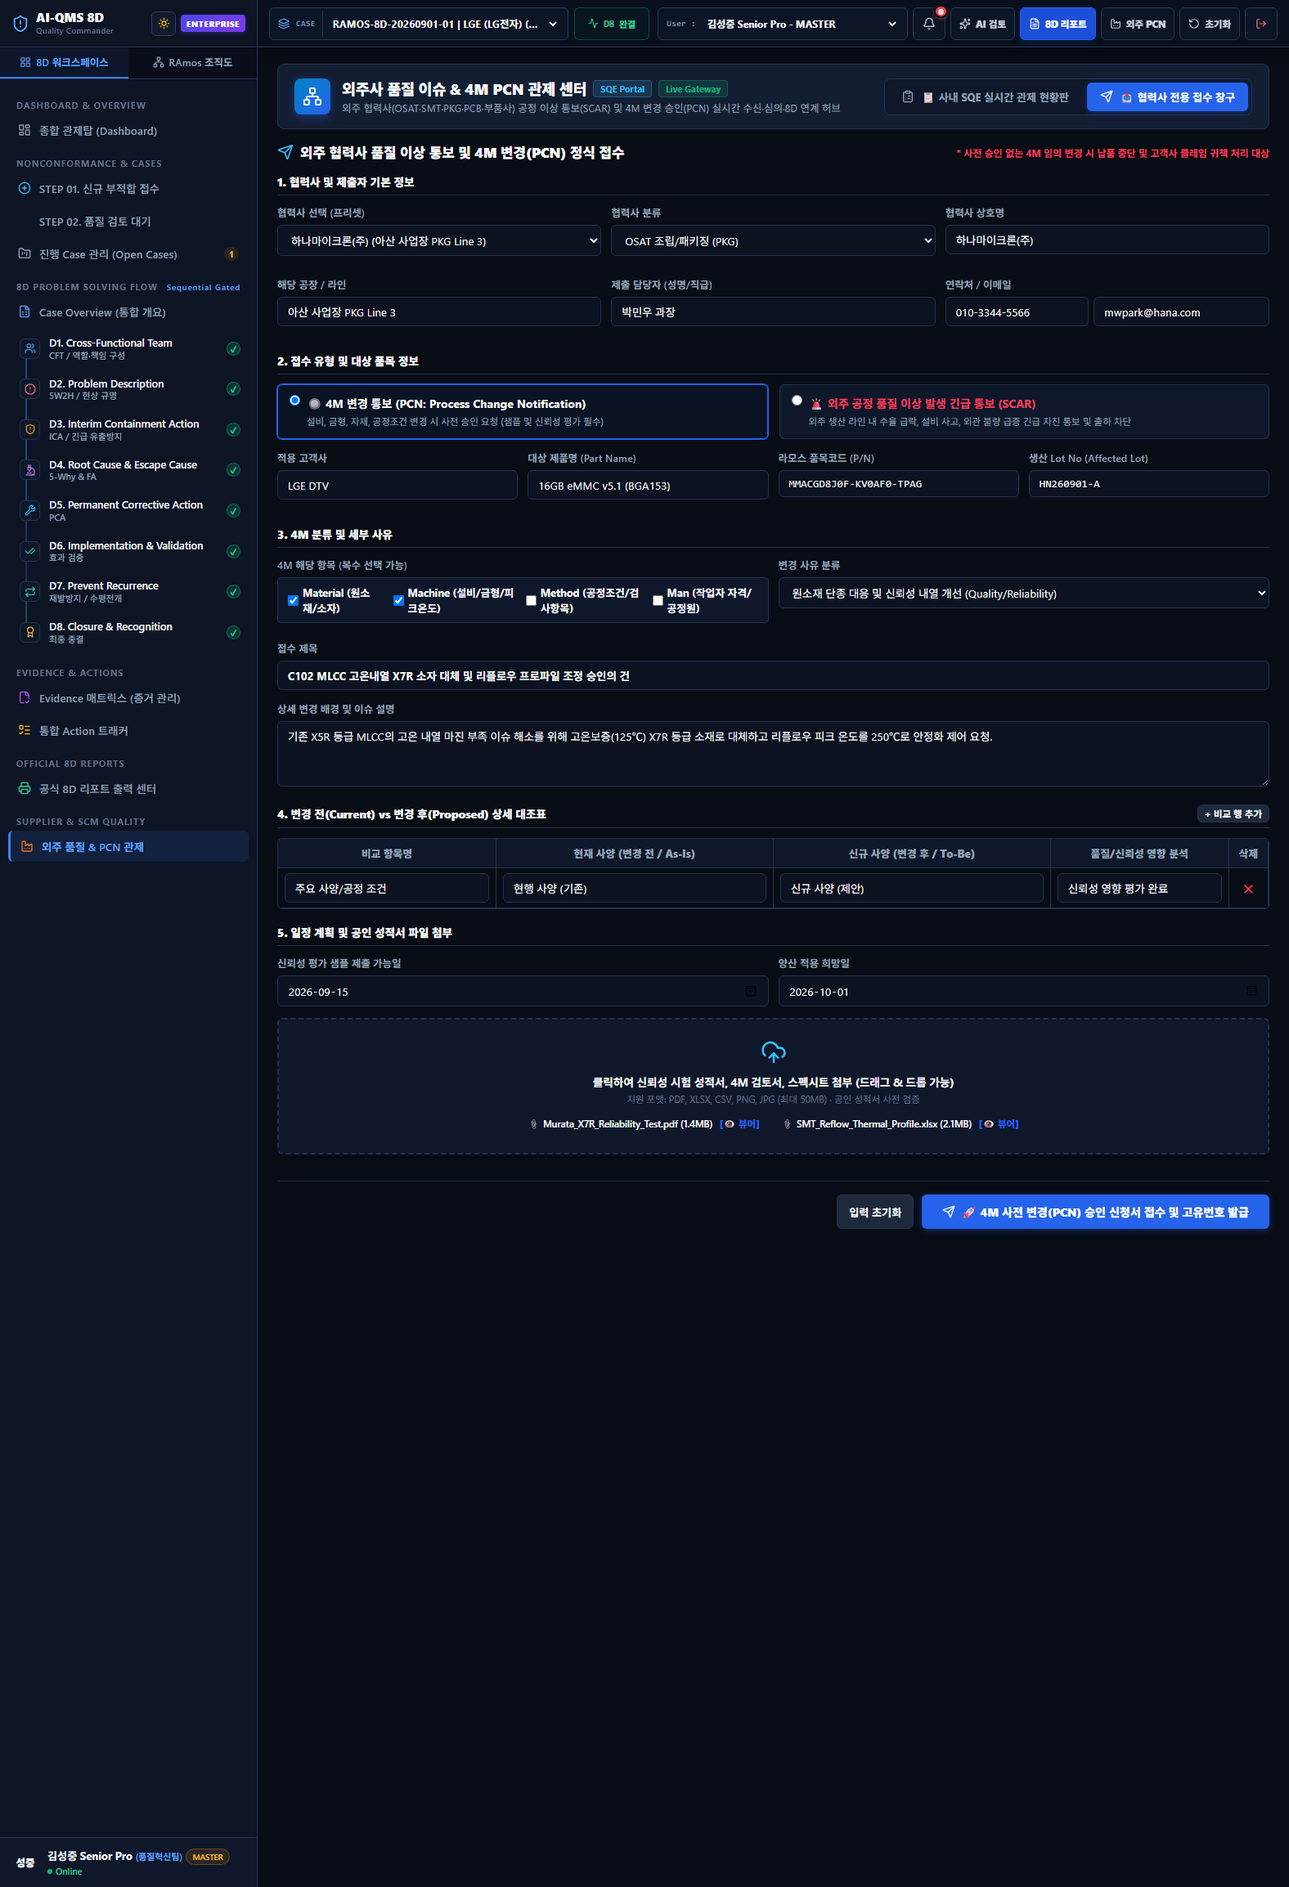
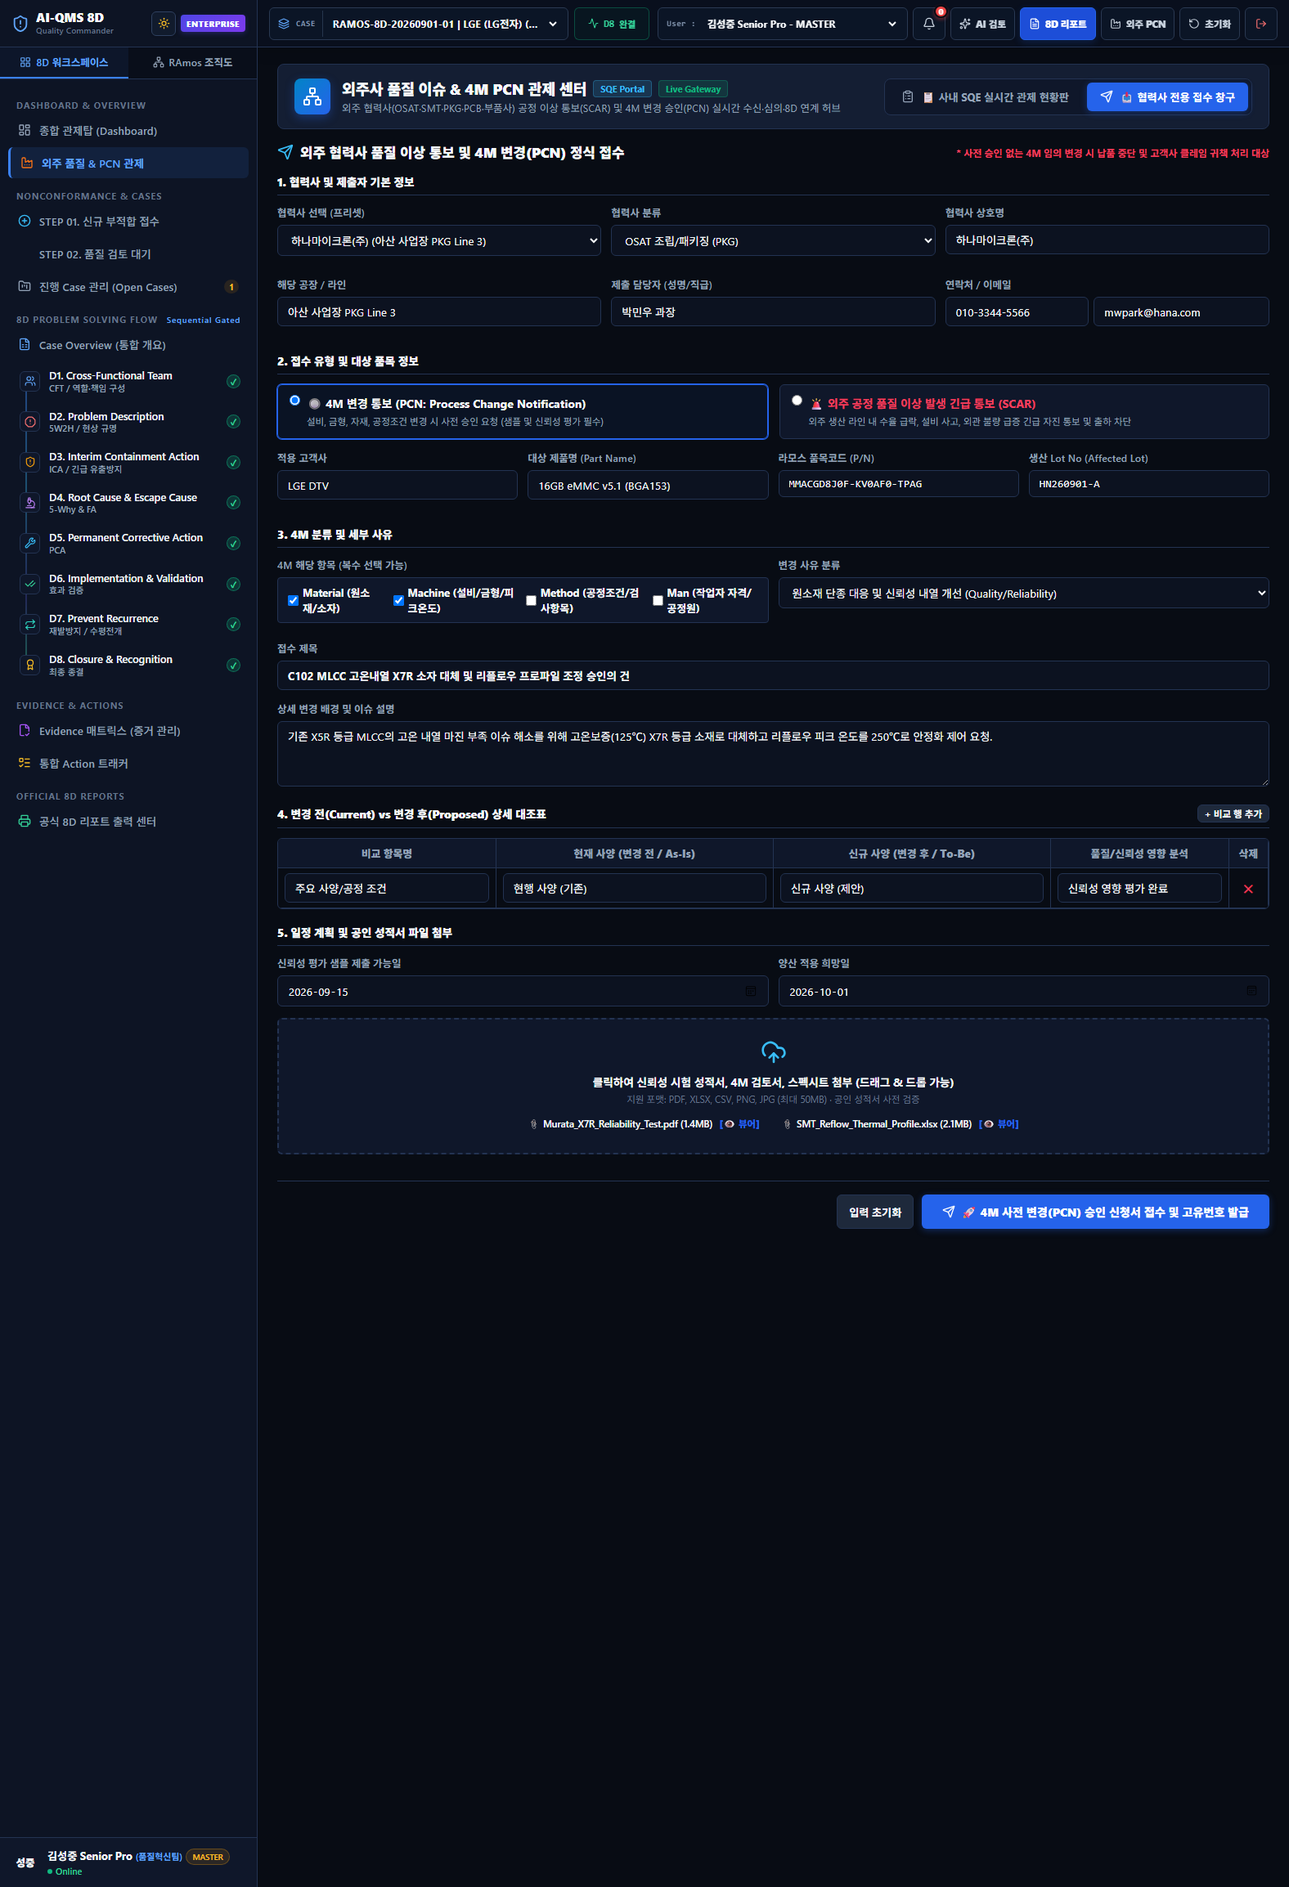
feat(supplier): relocate supplier portal under Dashboard and strictly hide all company internal 8D menus, org tree, and case selector for subcontractor accounts

Changed region(s): [[0.0, 0.0624, 0.1865, 0.4679]]

diff --git a/js/app.js b/js/app.js
@@ -251,38 +251,38 @@ function renderUserSwitcherHeader() {
 }
 
 function adaptSidebarForUser() {
-  const sidebarMenu = document.getElementById('sidebarMenuView');
-  if (!sidebarMenu) return;
+  const isSupplier = Boolean(CURRENT_USER && CURRENT_USER.isSupplier);
+  const internalNav = document.getElementById('internalCompanyNavSection');
+  const dashboardNav = document.getElementById('navItemDashboard');
+  const supplierNav = document.getElementById('nav-supplier-portal');
+  const supplierNavText = document.getElementById('navSupplierPortalText');
+  const menuCatOverview = document.getElementById('menuCatOverview');
+  const sidebarTabs = document.querySelector('.sidebar-tabs');
 
-  let banner = document.getElementById('sidebarSupplierNoticeBanner');
-  if (CURRENT_USER.isSupplier) {
-    if (!banner) {
-      banner = document.createElement('div');
-      banner.id = 'sidebarSupplierNoticeBanner';
-      banner.style.cssText = `
-        margin: 10px 14px;
-        padding: 10px 12px;
-        background: rgba(249, 115, 22, 0.12);
-        border: 1px solid rgba(249, 115, 22, 0.35);
-        border-radius: 8px;
-        display: flex;
-        flex-direction: column;
-        gap: 4px;
-      `;
-      sidebarMenu.prepend(banner);
-    }
-    banner.style.display = 'flex';
-    banner.innerHTML = `
-      <div style="display:flex; align-items:center; gap:6px; color:#f97316; font-size:0.75rem; font-weight:800;">
-        <i data-lucide="shield" style="width:14px; height:14px;"></i>
-        <span>외주사 보안 모드 가동</span>
-      </div>
-      <div style="font-size:0.7rem; color:var(--text-secondary); line-height:1.35;">
-        <b>${CURRENT_USER.company || '하나마이크론(주)'}</b> 계정입니다.<br>
-        <span style="color:#fb923c;">'외주 품질 & PCN 관제'</span>에서 당사 접수 건을 확인하세요.
-      </div>
-    `;
+  if (isSupplier) {
+    document.body.classList.add('supplier-mode');
+    if (internalNav) internalNav.style.display = 'none';
+    if (dashboardNav) dashboardNav.style.display = 'none';
+    if (sidebarTabs) sidebarTabs.style.display = 'none';
+    if (menuCatOverview) menuCatOverview.innerText = `외주 협력사 포털 (${CURRENT_USER.company || '하나마이크론'})`;
+    if (supplierNavText) supplierNavText.innerText = '외주 협력사 품질 & 4M PCN 접수 포털';
+    if (supplierNav) supplierNav.classList.add('active');
+
+    const orgView = document.getElementById('sidebarOrgView');
+    const menuView = document.getElementById('sidebarMenuView');
+    if (orgView) orgView.style.display = 'none';
+    if (menuView) menuView.style.display = 'block';
+
+    const banner = document.getElementById('sidebarSupplierNoticeBanner');
+    if (banner) banner.style.display = 'none';
   } else {
+    document.body.classList.remove('supplier-mode');
+    if (internalNav) internalNav.style.display = '';
+    if (dashboardNav) dashboardNav.style.display = '';
+    if (sidebarTabs) sidebarTabs.style.display = '';
+    if (menuCatOverview) menuCatOverview.innerText = 'Dashboard & Overview';
+    if (supplierNavText) supplierNavText.innerText = '외주 품질 & PCN 관제';
+    const banner = document.getElementById('sidebarSupplierNoticeBanner');
     if (banner) banner.style.display = 'none';
   }
 }
@@ -361,6 +361,9 @@ function onCaseChange(caseId) {
 
 function switchNav(viewName, el) {
   if (typeof persistCurrentEditor === 'function' && !persistCurrentEditor()) return;
+  if (CURRENT_USER && CURRENT_USER.isSupplier && viewName !== 'supplier-portal') {
+    return;
+  }
   appData.currentView = viewName;
   saveAppData();
   document.querySelectorAll('.nav-item').forEach(n => n.classList.remove('active'));
@@ -369,6 +372,9 @@ function switchNav(viewName, el) {
 }
 
 function switchStage(stageName) {
+  if (CURRENT_USER && CURRENT_USER.isSupplier) {
+    return;
+  }
   if (typeof persistCurrentEditor === 'function' && !persistCurrentEditor()) return;
   const activeCase = getActiveCase();
   if (typeof canEnterQualityStage === 'function' && activeCase) {
@@ -512,6 +518,10 @@ function openNotificationModal() {
 function renderCurrentView() {
   const container = document.getElementById('mainContentContainer');
   if (!container) return;
+
+  if (CURRENT_USER && CURRENT_USER.isSupplier && appData.currentView !== 'supplier-portal') {
+    appData.currentView = 'supplier-portal';
+  }
 
   const c = getActiveCase();
   const bannerHtml = renderUserTaskBannerHTML();

diff --git a/index.html b/index.html
@@ -13,7 +13,7 @@
   <script src="js/vendor/xlsx.full.min.js"></script>
 
   <!-- Modular Portal Stylesheet -->
-  <link rel="stylesheet" href="css/styles.css?v=20260909_v44">
+  <link rel="stylesheet" href="css/styles.css?v=20260909_v45">
   <script>
     (function() {
       try {
@@ -136,17 +136,23 @@
 
     <!-- TAB 1: 8D WORKSPACE MENU -->
     <div class="sidebar-content" id="sidebarMenuView">
-      <div class="menu-cat">Dashboard & Overview</div>
-      <a class="nav-item active" onclick="switchNav('dashboard', this)">
+      <div class="menu-cat" id="menuCatOverview">Dashboard & Overview</div>
+      <a class="nav-item active" id="navItemDashboard" onclick="switchNav('dashboard', this)">
         <i data-lucide="layout-dashboard" style="width: 16px; height: 16px;"></i>
         <span>종합 관제탑 (Dashboard)</span>
       </a>
-
-      <div class="menu-cat">Nonconformance & Cases</div>
-      <a class="nav-item" onclick="switchNav('new-case', this)">
-        <i data-lucide="plus-circle" style="width: 16px; height: 16px; color: #38bdf8;"></i>
-        <span>STEP 01. 신규 부적합 접수</span>
+      <a class="nav-item" id="nav-supplier-portal" onclick="switchNav('supplier-portal', this)">
+        <i data-lucide="factory" style="width: 16px; height: 16px; color: #f97316;"></i>
+        <span id="navSupplierPortalText">외주 품질 & PCN 관제</span>
       </a>
+
+      <!-- Company Internal 8D Sections (Hidden for Subcontractor Account) -->
+      <div id="internalCompanyNavSection">
+        <div class="menu-cat">Nonconformance & Cases</div>
+        <a class="nav-item" onclick="switchNav('new-case', this)">
+          <i data-lucide="plus-circle" style="width: 16px; height: 16px; color: #38bdf8;"></i>
+          <span>STEP 01. 신규 부적합 접수</span>
+        </a>
       <a class="nav-item" onclick="switchNav('intake-triage', this)">
         <i data-lucide="clipboard-search" style="width: 16px; height: 16px; color: #f59e0b;"></i>
         <span>STEP 02. 품질 검토 대기</span>
@@ -280,13 +286,8 @@
         <i data-lucide="printer" style="width: 16px; height: 16px; color: #34d399;"></i>
         <span>공식 8D 리포트 출력 센터</span>
       </a>
-
-      <div class="menu-cat">Supplier & SCM Quality</div>
-      <a class="nav-item" onclick="switchNav('supplier-portal', this)" id="nav-supplier-portal">
-        <i data-lucide="factory" style="width: 16px; height: 16px; color: #f97316;"></i>
-        <span>외주 품질 & PCN 관제</span>
-      </a>
-    </div>
+      </div> <!-- /internalCompanyNavSection -->
+    </div> <!-- /sidebarMenuView -->
 
     <!-- TAB 2: RAMOS ORG TREE -->
     <div class="sidebar-content" id="sidebarOrgView" style="display: none;">
@@ -356,19 +357,19 @@
           <span class="notif-badge-count" id="headerNotifBadge">0</span>
         </button>
 
-        <button class="header-action-button" onclick="openAIAssistantModal()" title="AI 품질 검토">
+        <button class="header-action-button header-internal-btn" onclick="openAIAssistantModal()" title="AI 품질 검토">
           <i data-lucide="sparkles"></i>
           <span>AI 검토</span>
         </button>
-        <button class="header-action-button primary" onclick="switchNav('reports-hub')" title="8D 리포트 및 결재">
+        <button class="header-action-button primary header-internal-btn" onclick="switchNav('reports-hub')" title="8D 리포트 및 결재">
           <i data-lucide="file-text"></i>
           <span>8D 리포트</span>
         </button>
-        <button class="header-action-button" onclick="switchNav('supplier-portal')" title="외주사 품질 및 4M PCN 관제">
+        <button class="header-action-button header-internal-btn" onclick="switchNav('supplier-portal')" title="외주사 품질 및 4M PCN 관제">
           <i data-lucide="factory"></i>
           <span>외주 PCN</span>
         </button>
-        <button class="header-action-button" onclick="if(confirm('진짜 회사 16GB 기준 데이터로 화면을 깨끗하게 새로고침하시겠습니까?')) resetToReal16GBData()" title="16GB 기준 데이터 초기화">
+        <button class="header-action-button header-internal-btn" onclick="if(confirm('진짜 회사 16GB 기준 데이터로 화면을 깨끗하게 새로고침하시겠습니까?')) resetToReal16GBData()" title="16GB 기준 데이터 초기화">
           <i data-lucide="rotate-ccw"></i>
           <span>초기화</span>
         </button>

diff --git a/css/styles.css b/css/styles.css
@@ -35248,3 +35248,29 @@ html[data-theme="light"] .content-body {
   border-color: #38bdf8;
   transform: translateY(-1px);
 }
+
+/* ========================================================================= */
+/* SUBCONTRACTOR ISOLATION RULES (외주 협력사 로그인 시 사내 8D 정보 완전 은닉) */
+/* ========================================================================= */
+body.supplier-mode #internalCompanyNavSection,
+body.supplier-mode #navItemDashboard,
+body.supplier-mode .header-case-zone,
+body.supplier-mode .header-internal-btn,
+body.supplier-mode .sidebar-tabs,
+body.supplier-mode #sidebarOrgView {
+  display: none !important;
+}
+
+body.supplier-mode #nav-supplier-portal {
+  background: rgba(249, 115, 22, 0.12) !important;
+  border-left: 3px solid #f97316 !important;
+  color: #fb923c !important;
+  font-weight: 800 !important;
+  padding: 10px 14px;
+}
+
+body.supplier-mode #menuCatOverview {
+  color: #f97316;
+  font-weight: 800;
+  letter-spacing: 0.04em;
+}

diff --git a/WORK_HANDOFF.md b/WORK_HANDOFF.md
@@ -6,38 +6,59 @@
 
 ## 📌 현재 활성 프로젝트 상태 (Latest Active Status)
 
-* **최근 업데이트 일시**: `2026-09-09 08:35 (KST)`
+* **최근 업데이트 일시**: `2026-09-09 08:47 (KST)`
 * **최근 작업 프로젝트**: `11_AI_Customer_Nonconformance_8D_System_Antigravity`
-* **진행 상태 (Status)**: 🟢 `[COMPLETED]` / 🏭 `[DEDICATED_SUBCONTRACTOR_ACCOUNT_AND_SECURITY_MODE_DEPLOYED]`
+* **진행 상태 (Status)**: 🟢 `[COMPLETED]` / 🛡 `[STRICT_SUBCONTRACTOR_NAVIGATION_ISOLATION_AND_RELOCATION_DEPLOYED]`
 * **작업 내용 요약**:
-  1. **외주 협력사 전용 계정 및 퀵 로그인·페르소나 체계 구축**:
-     - **사용자 요청**: "일단 외주 계정으로 1개 만들어줘!! 외주 계정으로 접속하였을 때, 어떻게 보이는지를 좀 보려고!!"
-     - **계정 정보**: ID `mwpark` (또는 한글 `외주`, `외주사`, `박민우`), PW `1` (성명: 박민우 과장, 소속: 하나마이크론(주) OSAT PKG).
-     - **로그인 화면 및 헤더 페르소나 칩 탑재**: `#loginScreen` 퀵 로그인 칩에 `[🏭 박민우 과장 | 외주(하나마이크론)]` 추가 및 헤더 페르소나 드롭다운에 `🏭 [외주] 박민우 과장 (하나마이크론)` 등록.
-  2. **철저한 협력사 데이터 격리 (Subcontractor Data Isolation)**:
-     - 타사(ASE Korea, 대덕전자 등)의 영업 비밀 및 공정 이상 내역 완전 차단/은닉.
-     - 오직 당사(`하나마이크론(주)`)의 4M PCN 및 품질 이슈 티켓만 관제 테이블에 렌더링.
-     - 상단 4대 KPI 지표(총 접수 건수, 신규, 심의 중, 8D 승격 등) 역시 당사 데이터만을 기준으로 자동 집계.
-  3. **외주사 전용 보안 모드 시각화 & UX 최적화**:
-     - **헤더 모드 배지**: `[🏭 하나마이크론(주) 전용 접속 모드] [🔄 본사 SQE 전환]` 버튼 탑재 (1-Click으로 본사/외주 간 즉각 전환 테스트 가능).
-     - **좌측 사이드바**: 상단에 오렌지색 외주사 보안 모드 안내 배너 및 하단 오렌지 그라데이션 외주 협력사 전용 프로필 뱃지 표출.
-     - **포털 브랜드 타이틀**: `외주 협력사 품질 & 4M PCN 접수 포털` + `[🏭 하나마이크론(주) 전용]` + `[외주사 보안 모드]` 배지 표기.
-     - **탭 및 필터 바**: `[📋 당사(하나마이크론(주)) 접수/심의 현황판]` 탭 및 협력사 필터가 `하나마이크론(주) (당사 전용)`으로 고정 잠금.
-  4. **외주사용 클린 심의 결과 통보서 (Read-Only Official SQE Notification)**:
-     - 티켓 클릭 시 본사용 내부 심의 폼/결정 버튼 대신 **"라모스테크놀러지 품질본부(SQE) 공식 심의 결과 통보서"** 패널 표출.
-     - SQE 담당 심의관(`김성중 Senior Pro`), 공식 심의 완료일, 사내 8D Case 연계 번호, SQE 종합 심의 의견 및 조건부 승인 지침을 품격 높은 공문 형태로 렌더링.
-     - 하단에는 `[🖨 A4 심의 통보 공문 출력]` 및 `[확인 완료 (닫기)]` 버튼만 제공하여 내부 권한 침해 원천 방지.
-  5. **신규 접수 폼 자동 바인딩 및 조작 방지 (Lock)**:
-     - `📥 신규 4M PCN / 품질이상 접수` 탭 진입 시 협력사 상호(`하나마이크론(주)`), 공장(`아산 사업장 PKG Line 3`), 담당자(`박민우 과장`), 연락처, 이메일이 자동 입력되고 수정 불가(readonly/disabled) 잠금 처리.
-  6. **전체 E2E 브라우저 테스트 100% PASS 및 실사 스크린샷 2종 검증 완료**:
-     - `python tests/run_full_e2e.py` 실행 결과: 4/4 전 스위트 100% 통과 (사이드바, 라이트/다크 테마, 코어 스모크, 외주 포털 & 협력사 모드).
-     - 산출 검증 스크린샷:
-       - `verify_supplier_account_view.png` (외주사 전용 관제탑 및 엄격한 데이터 격리 화면)
-       - `verify_supplier_account_modal.png` (외주사용 클린 SQE 공식 심의 통보서 모달)
+  1. **외주 품질 & PCN 관제 메뉴 위치를 종합 관제탑(Dashboard) 바로 아래로 전진 배치**:
+     - **사용자 요청**: "이 부분을 대시보드 있는곳으로 종합 관제탑 아래로 올리고!!"
+     - 기존 사이드바 맨 하단에 분리되어 있던 `외주 품질 & PCN 관제` 메뉴를 상단 `Dashboard & Overview` 카테고리 내부로 이동하여, `종합 관제탑 (Dashboard)` 바로 아래에 직관적으로 배치.
+  2. **외주사 계정 접속 시 사내 모든 8D 메뉴 및 내부 정보 100% 완전 은닉 격리**:
+     - **사용자 요청**: "외주사계정으로 접속 하였을 때, 다른 부분이 다 비활성화 되어서 보이지 않는 것이 당연한거고!! 저부분도 안보일 수 있게 해줘!! 딱 외주 협력사 품질 & 4M PCN 접수 포털 이것만 보이게 해줘!! 너무 우리회사의 다른 정보들까지 제공할 필요는 없는거니까!!"
+     - **은닉 처리된 사내 기밀 요소**:
+       - `종합 관제탑 (Dashboard)`: 사내 종합 품질 지표 및 클레임/불량 통계 은닉.
+       - `Nonconformance & Cases`: STEP 01 접수, STEP 02 Triage, 진행 Case 관리 은닉.
+       - `8D Problem Solving Flow`: Case Overview 및 D1~D8 전체 단계 워크스페이스 은닉.
+       - `Evidence & Actions`: 증거 매트릭스, 통합 액션 트래커 은닉.
+       - `Official 8D Reports`: 공식 8D 리포트 출력 센터 은닉.
+       - `RAmos 조직도`: 사내 62명 임직원 조직도 및 이메일 탭 전체 은닉.
+       - 상단 헤더: 사내 `CASE` 선택 셀렉터, `AI 검토`, `8D 리포트`, `초기화` 버튼 은닉.
+     - **외주사 계정(`mwpark`) 사이드바 단독 노출 규격**:
+       - 카테고리: `외주 협력사 포털 (하나마이크론(주))`
+       - 메뉴 항목: **`[🏭 외주 협력사 품질 & 4M PCN 접수 포털]` (단독 활성화)**
+  3. **라우팅 및 조작 원천 차단 (Navigation Guards)**:
+     - `switchNav()` 및 `switchStage()`에 외주사 보안 가드를 적용하여, URL/스크립트/단축키 등으로 사내 뷰 진입 시도시 즉각 차단.
+     - 본사 SQE 계정(`김성중`)으로 복귀 시 모든 사내 8D 메뉴 및 조직도가 100% 정상 원상 복구.
+  4. **전체 E2E 브라우저 테스트 100% 통과 (4/4 PASS)**:
+     - `tests/test_supplier_portal_e2e.cjs`에 사이드바 격리 및 헤더 차단 자동 검증 시나리오 반영.
+     - `python tests/run_full_e2e.py` 전 스위트 100% PASS 확인.
+     - 실사 검증 스크린샷 갱신: `verify_supplier_account_view.png` (완전 격리된 외주사 전용 단독 메뉴 뷰).
 
 ---
 
 ## 📋 세션별 인수인계 이력 (Handoff History)
+
+### 🗓 [2026-09-09 08:47] 외주 포털 메뉴 위치 이동(종합 관제탑 하단) 및 사내 8D 정보 100% 완전 은닉 격리
+* **Git 브랜치**: `antigravity/step01-intake-agent`
+* **작업 대상 폴더**: `G:\내 드라이브\AI_Place\Work\11_AI_Customer_Nonconformance_8D_System_Antigravity`
+* **수정 내용**:
+  1. `index.html`:
+     - `#sidebarMenuView` 상단 `종합 관제탑 (Dashboard)` 바로 아래로 `#nav-supplier-portal` 이동.
+     - 사내 전용 메뉴 전체를 `#internalCompanyNavSection`으로 그룹핑.
+     - 상단 헤더 사내 전용 버튼(`AI 검토`, `8D 리포트`, `초기화`)에 `header-internal-btn` 클래스 부여.
+     - CSS 캐시 버스터 `v=20260909_v45` 갱신.
+  2. `css/styles.css`:
+     - `body.supplier-mode` 셀렉터를 통해 `#internalCompanyNavSection`, `#navItemDashboard`, `.header-case-zone`, `.header-internal-btn`, `.sidebar-tabs`, `#sidebarOrgView`를 `display: none !important;` 처리.
+     - 외주사 활성 메뉴 오렌지 테마 하이라이트 스타일 추가.
+  3. `js/app.js`:
+     - `adaptSidebarForUser()`에서 외주 계정 시 사내 요소 즉시 은닉, 메뉴 라벨을 `외주 협력사 품질 & 4M PCN 접수 포털`로 동적 설정.
+     - `switchNav()` 및 `switchStage()`에 외주사 라우팅 가드 추가.
+     - `renderCurrentView()`에서 외주사 계정일 경우 `supplier-portal`로 자동 고정.
+  4. `tests/test_supplier_portal_e2e.cjs`:
+     - Step 8에 사내 메뉴/헤더 셀렉터 숨김 및 본사 복귀 시 정상 복구 검증 assertion 편입.
+* **검증 결과**:
+  - `python tests/run_full_e2e.py` 4/4 ALL PASS.
+  - 실사 스크린샷 `verify_supplier_account_view.png` 재산출 완료.
 
 ### 🗓 [2026-09-09 08:35] 외주 협력사 전용 계정(`mwpark`) 및 보안 모드·데이터 격리 관제 시스템 구축 완료
 * **Git 브랜치**: `antigravity/step01-intake-agent`
